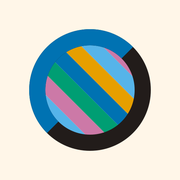
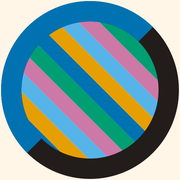
Icono con el círculo más grande
Claude-Session: https://claude.ai/code/session_01DxnbB1LyvtM6Gg8KpMoYjk

diff --git a/sw.js b/sw.js
@@ -1,6 +1,6 @@
 /* Offline support: show the saved copy at once, fetch the new version in the background.
    The new version is used on the next launch. Change VERSION to force a full refresh. */
-const VERSION = "cuento-v1";
+const VERSION = "cuento-v2";
 const FILES = ["./", "index.html", "manifest.webmanifest", "icon-192.png", "icon-512.png", "apple-touch-icon.png"];
 
 self.addEventListener("install", e => {
